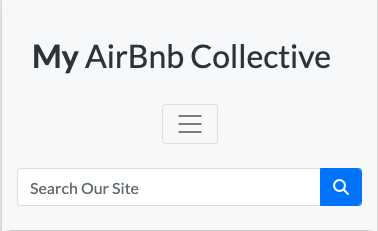
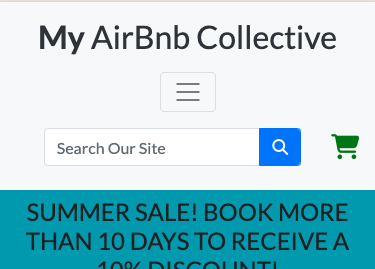
debug changed to development

diff --git a/templates/includes/header.html b/templates/includes/header.html
@@ -48,3 +48,37 @@
             </nav>
         </div>
     </div>
+    <div class="row justify-content-center">
+        <div class="col-lg-4 mb-4 col-10">
+            <form method="GET" action="{% url 'properties' %}">
+                <div class="input-group w-60">
+                    <input class="form-control border" type="text" name="q" placeholder="Search Our Site">
+                    <div class="input-group-append">
+                        <button class="form-control btn btn-primary search-button" type="submit" aria-label="Search Our Site">
+                            <span class="icon">
+                                <i class="fas fa-search"></i>
+                            </span>
+                        </button>
+                    </div>
+                </div>
+            </form>
+        </div>
+    
+    {% if filtered %}
+        <div class="col text-center mb-4">
+            <form method="GET" action="{% url 'properties' %}">
+                <button class="btn btn-primary" type="submit">Reset Search</button>
+            </form>
+        </div>
+    {% endif %}
+    <div class="col-1 d-sm-block d-md-block d-lg-none">
+        <div class="nav-item shopping-bag">
+            <a class="nav-link" href="{% url 'cart' %}" aria-label="Shopping Cart">
+                {% if cart_items %}
+                    <i class="fa-solid fa-cart-shopping cart-full"></i>
+                {% else %}
+                    <i class="fa-solid fa-cart-shopping"></i>
+                {% endif %}
+            </a>
+        </div>
+    </div>

diff --git a/templates/base.html b/templates/base.html
@@ -37,29 +37,6 @@
         <!-- Show header/ navbar section -->
         <header class="container-fluid sticky-top bg-light box-shadow-header">
             {% include 'includes/header.html' %}
-            <div class="row justify-content-center">
-                <div class="col-lg-4 mb-4">
-                    <form method="GET" action="{% url 'properties' %}">
-                        <div class="input-group w-60">
-                            <input class="form-control border" type="text" name="q" placeholder="Search Our Site">
-                            <div class="input-group-append">
-                                <button class="form-control btn btn-primary search-button" type="submit" aria-label="Search Our Site">
-                                    <span class="icon">
-                                        <i class="fas fa-search"></i>
-                                    </span>
-                                </button>
-                            </div>
-                        </div>
-                    </form>
-                </div>
-            </div>  
-            {% if filtered %}
-            <div class="col text-center mb-4">
-                <form method="GET" action="{% url 'properties' %}">
-                    <button class="btn btn-primary" type="submit">Reset Search</button>
-                </form>
-            </div>
-                {% endif %}
         </header>
 
         <!-- Show toast messages -->

diff --git a/templates/includes/toasts/toast_success.html b/templates/includes/toasts/toast_success.html
@@ -30,7 +30,7 @@
                             <p class="my-0 small"><strong>Name: {{ item.property.name }}</strong></p>
                             <p class="my-0 small"><strong>Date Range: {{ item.date_range }}</strong></p>
                             <p class="my-0 small"><strong>Total Days: {{ item.total_days }}</strong></p>
-                            {% if total_days > discount_threshold %}
+                            {% if total_days >= discount_threshold %}
                                 <br>
                                 <p class="text-uppercase"><strong>10% Discount added!</strong></p>
                                 <p><strong>You've received <span class="text-danger">£{{ discount_amount | floatformat:2 }}</span> off your order!</strong></p>

diff --git a/static/css/base.css b/static/css/base.css
@@ -62,6 +62,10 @@ img {
   color: blue !important;
 }
 
+a.nav-link {
+  padding: 0;
+}
+
 .nav-link:hover {
   color: darkblue !important;
 }
@@ -201,19 +205,16 @@ img {
     }
   }
 
-@media screen and (max-width: 600px) {
-  body {max-width: 100vw}
+@media screen and (max-width: 1200px) {
 
-  .row {
+  /* .row {
     margin-right: 0 !Important;
     margin-left: 0 !Important;
+  } */
+  .carousel-inner {
+    height: auto;
   }
-
-  .nav-link {
-    margin: 0 !important;
-  }
-
-  .nav-link {
-    padding: 0;
+  .carousel h2 {
+    width: 80%
   }
 }

diff --git a/cart/templates/cart/cart.html b/cart/templates/cart/cart.html
@@ -37,7 +37,7 @@
         {% if cart_items %}
             {% for item in cart_items %}
             <div class="row cart-container m-lg-4 bg-light mx-0">
-                <div class="col-10 col-lg-3 cart-item mx-auto mt-4">
+                <div class="col-12 col-lg-3 cart-item mx-auto mt-4">
                     <img class="cart-image img-fluid" src="{{item.property.image.url}}" alt="{{item.property.name}}, {{ item.property.location }}">
                 </div>
                 <div class="col m-4 property-details">

diff --git a/cart/static/cart/css/cart.css b/cart/static/cart/css/cart.css
@@ -46,8 +46,11 @@
     }
 }
 
-@media (max-width: 480px) {
+@media (max-width: 992px) {
     .edit-button {
-        margin-bottom: 10px;
+        margin-bottom: 5px !important;
+    }
+    .taxi-section {
+        border-left: 0;
     }
 }

diff --git a/cart/contexts.py b/cart/contexts.py
@@ -31,7 +31,7 @@ def cart_contents(request):
                     property_count += 1
                     original_property_total = days * property.price_per_night
 
-                    if total_days > settings.TOTAL_DAYS_DISCOUNT_THRESHOLD:
+                    if total_days >= settings.TOTAL_DAYS_DISCOUNT_THRESHOLD:
                         discount_amount = original_property_total * Decimal('0.1')
                         property_total = original_property_total - discount_amount
                     else:

diff --git a/myairbnb_collective/settings.py b/myairbnb_collective/settings.py
@@ -26,7 +26,7 @@ BASE_DIR = os.path.dirname(os.path.dirname(os.path.abspath(__file__)))
 SECRET_KEY = os.environ.get('SECRET_KEY', ' ')
 
 # SECURITY WARNING: don't run with debug turned on in production!
-DEBUG = True
+DEBUG = 'DEVELOPMENT' in os.environ
 #
 # 'DEVELOPMENT' in os.environ
 

diff --git a/TESTING.md b/TESTING.md
@@ -327,6 +327,7 @@ I found some results could be better, but was mainly down to bootstrap classes t
 | :--- | :--- | :--- | :--- | :--- |
 | **Viewing and Navigation** |
 | Shopper | Easily navigate the site | Find properties and information quickly | A navbar is at the top of the page, providing links to all pages for the user to find quickly. | [Main Nav](/readme_testing_media/user_stories/main_nav.png)  [Mobile Nav](/readme_testing_media/user_stories/nav_mobile.png) |
+| Shopper | View cart at all times | Be able to access my shopping cart quickly | Shopping cart is in navbar or on all device sizes. Shopping cart added next to search bar on smaller devices to not be hidden inside nav dropdown | [Main Nav](/readme_testing_media/user_stories/main_nav.png)  [Mobile Nav](/readme_testing_media/navbar-mobile-open.png) |
 | Shopper | View more information about the property from properties page | See if the property I like is suitable for my needs, if its available to book and other criteria like do they allow pets etc. | Click on the image of the chosen property or the 'find out more' button. Both options direct the user to the property details page. | [Property Details link ](/readme_testing_media/user_stories/property_links.png)  [Mobile Property Details link](/readme_testing_media/user_stories/mobile_property_links.png) |
 | Shopper | Choose dates I want to visit the property, and how many guests | See availability of the property, if it has the dates I would like to visit, confirm the dates so I can add the property to cart. | Datepicker is provided on the property details page. If clicked, it shows a calendar. Unavailable dates are shown in red to the user so it can't be double booked. Guest count dropdown is also shown on property details page. |[Property Details Choices ](/readme_testing_media/user_stories/property_details_choices.png)  [Property Details calendar](/readme_testing_media/user_stories/property_details_calendar.png) [Property Details choices mobile](/readme_testing_media/user_stories/property_details_choices_mobile.png)|
 | Shopper | View my cart in full detail | Make sure the items I have chosen have the correct details, and be able to edit or delete the properties from my cart | Cart page allows user to see all cart items in seperate containers for accessibility. They include all details for the booking including property details, the date range, total number of days the user is staying and a breakdown of costs. Grand total takes all totals into account from all properties and for taxi fares also. | [Cart Full View ](/readme_testing_media/user_stories/cart_full_view.png)  [Mobile Shopping Cart](/readme_testing_media/user_stories/cart_full_view_mobile.png) |
